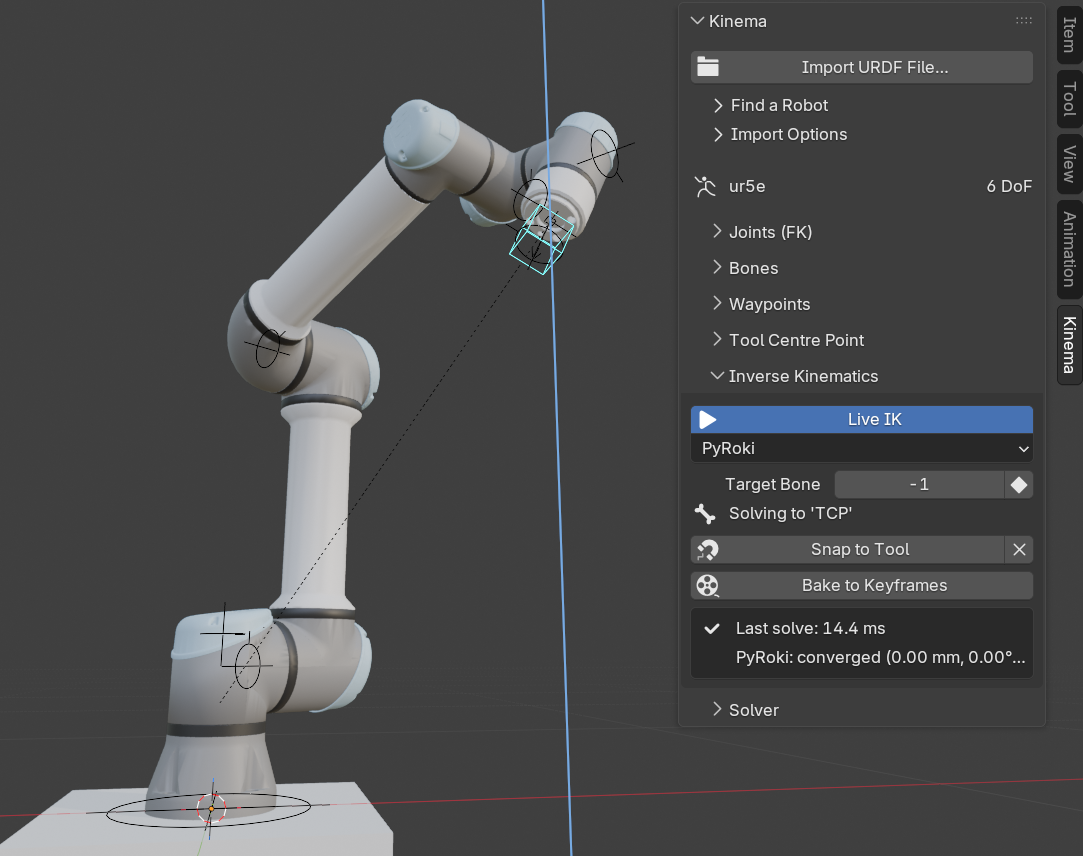
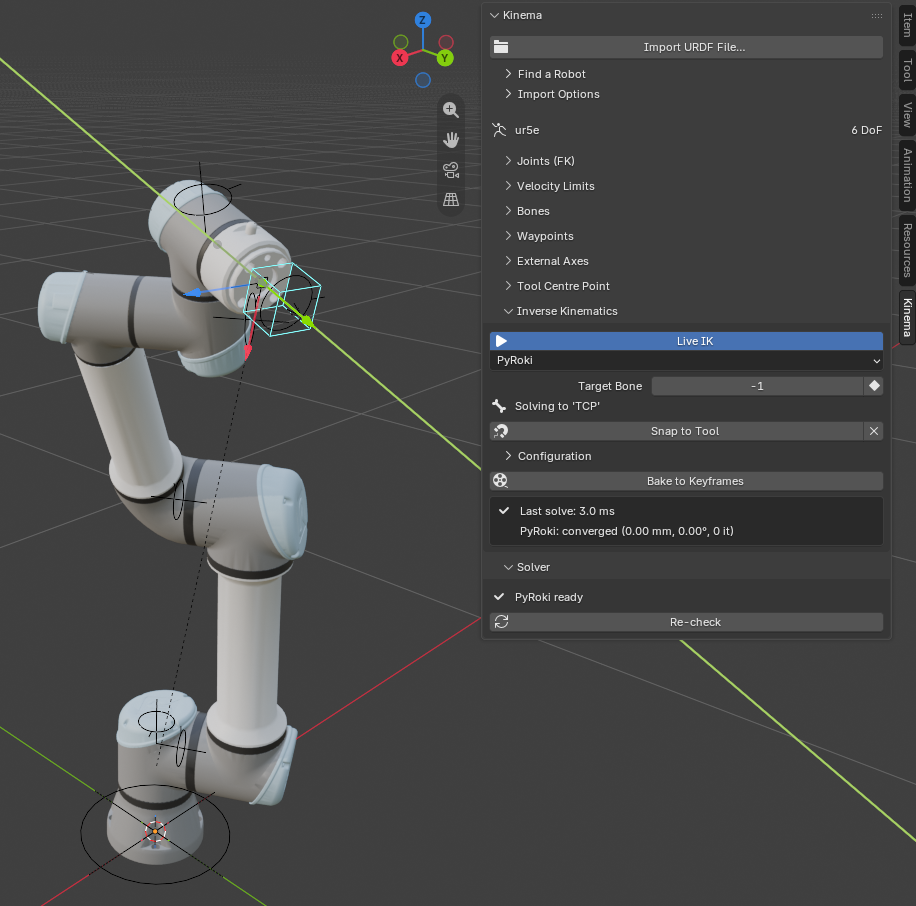
Retake the sidebar screenshots for 0.6.0
The overview, IK solve, joints and TCP screenshots show the 0.6.0 sidebar:
nine panels, External Axes among them, and Edit TCP... in the TCP panel.
The external-axes tutorial gets a screenshot of the Add External Axis
dialog with its preview.

Claude-Session: https://claude.ai/code/session_01STDGr2TSt3t9R2wRg1mgJD

diff --git a/docs/tutorials/external-axes.md b/docs/tutorials/external-axes.md
@@ -21,6 +21,8 @@ PyRoki solves through them.
 
 Open the **External Axes** panel and click **Add External Axis…**.
 
+![Screenshot: the Add External Axis dialog, with its preview in the viewport.](../assets/images/kinema_external_axis.png){ .screenshot }
+
 Start from a **Preset**. Each one only fills in the fields below it, so you can change any of
 them afterwards:
 
